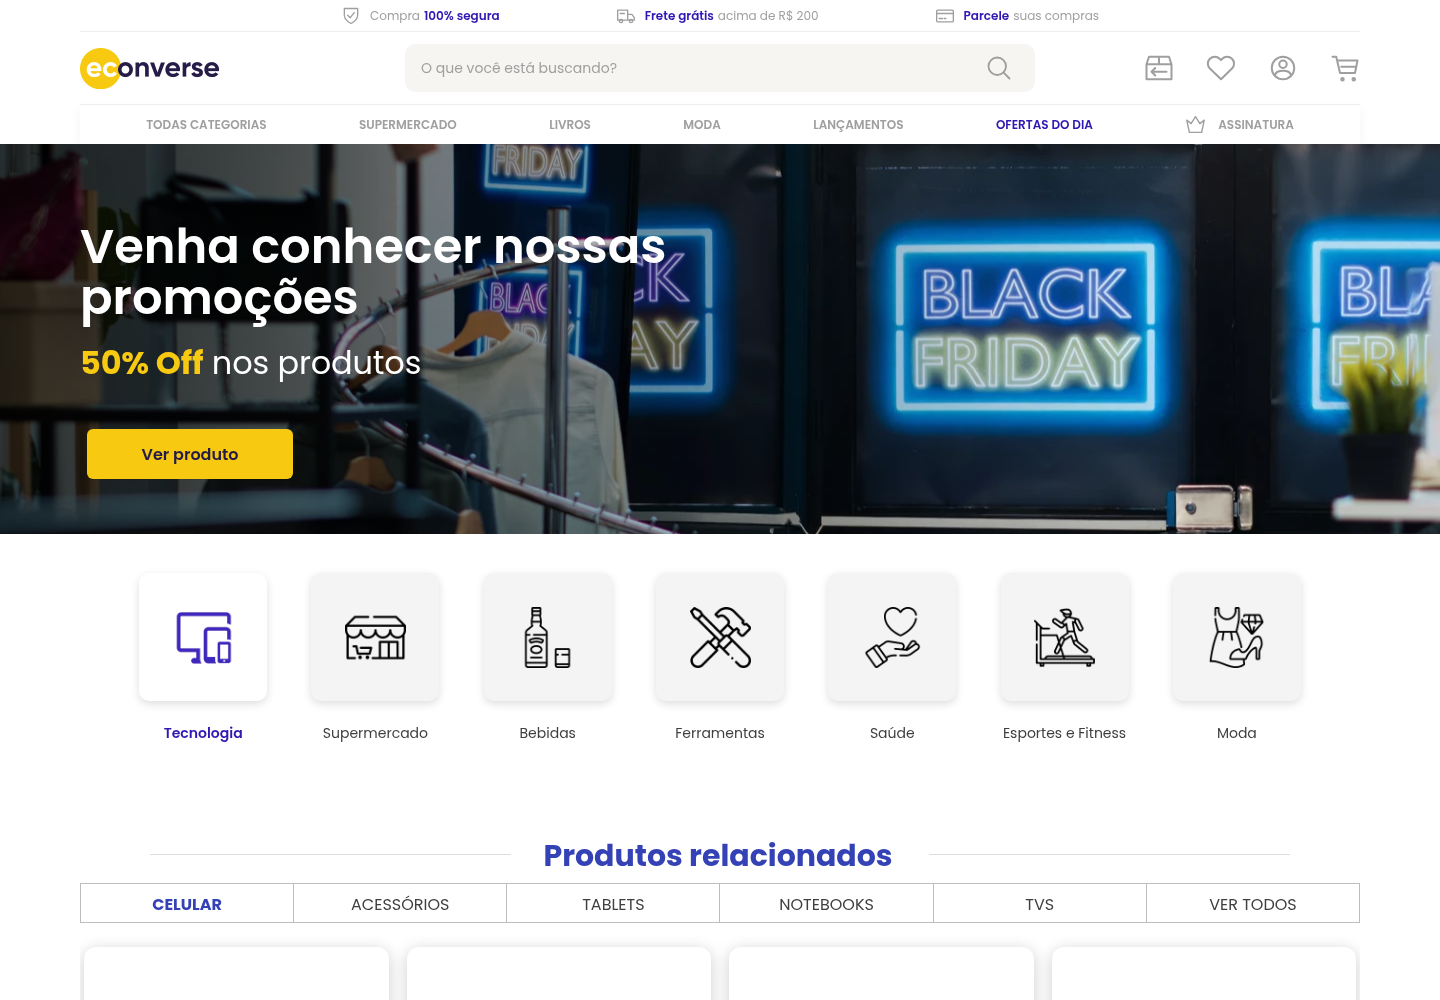
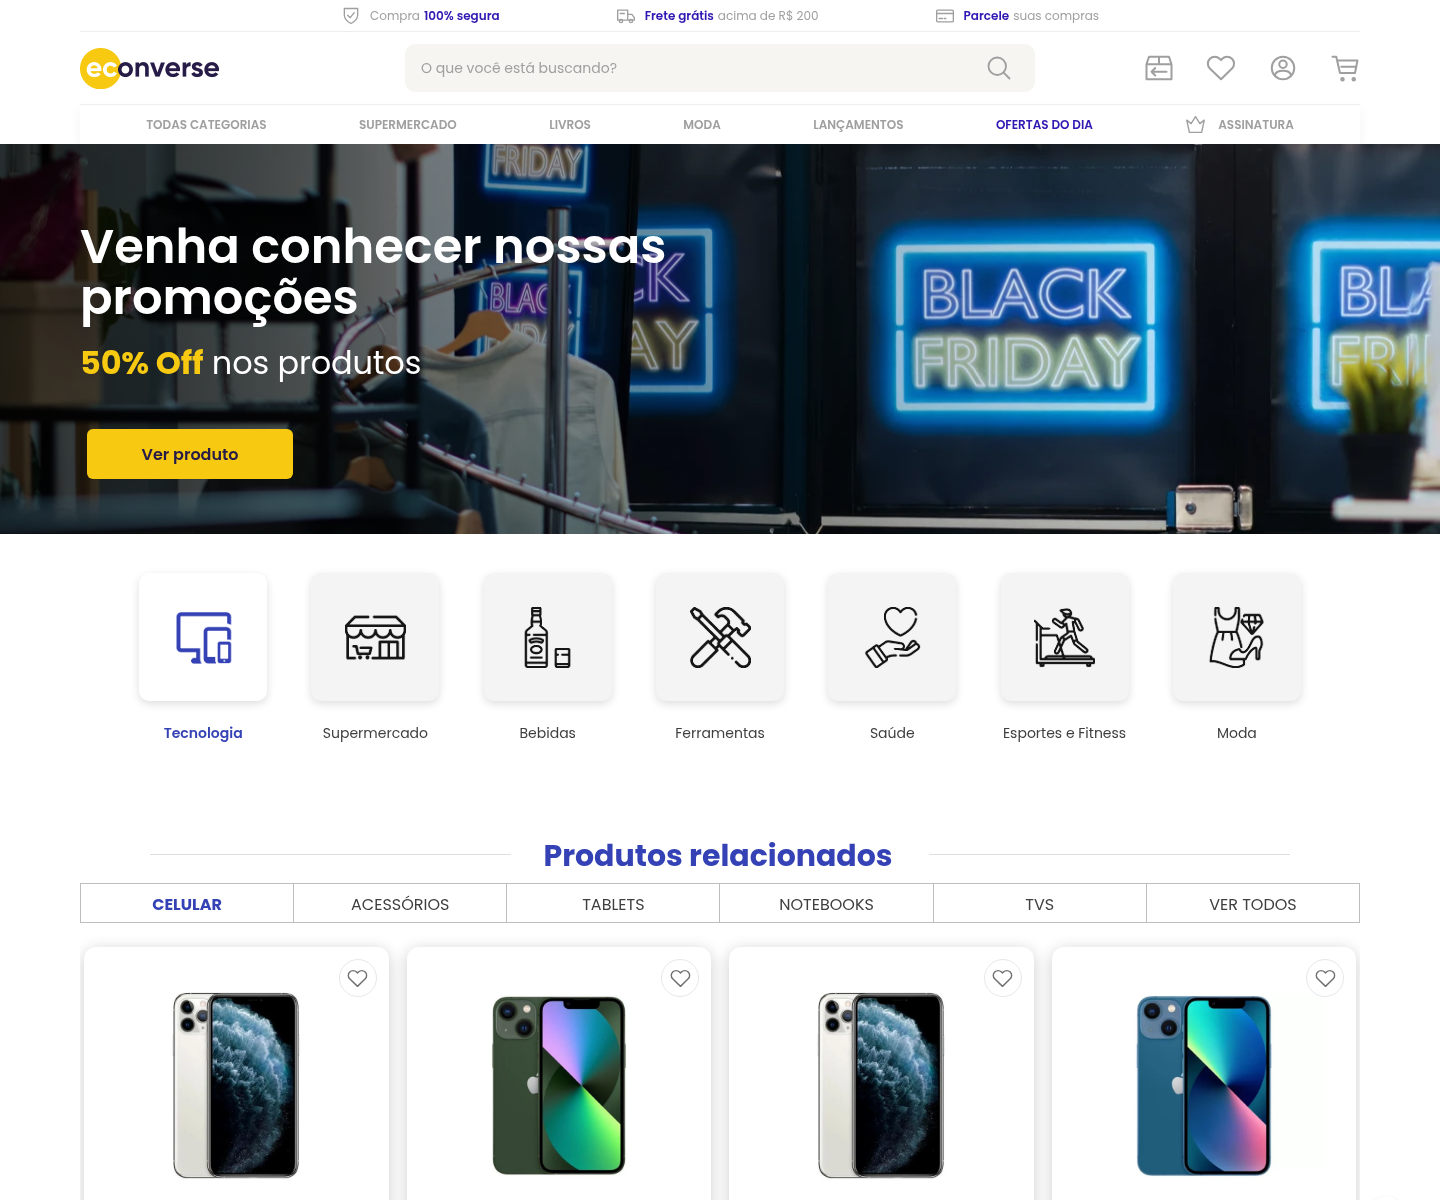
Usa fotos reais por variante e preserva tema claro

diff --git a/e2e/store.spec.ts b/e2e/store.spec.ts
@@ -16,7 +16,7 @@ test.beforeEach(async ({ page }) => {
       contentType: "image/png",
     }),
   );
-  await page.goto("/");
+  await page.goto("/?catalog=assessment");
   await expect(page.locator("#produtos .product-card")).toHaveCount(
     catalog.products.length,
   );
@@ -119,6 +119,47 @@ test("carrossel respeita os limites, layout não transborda e alto contraste pas
     .withTags(["wcag2a", "wcag2aa", "wcag21aa"])
     .analyze();
   expect(result.violations).toEqual([]);
+});
+
+test("abre com os iPhones reais e fotos correspondentes sem consultar a API genérica", async ({
+  page,
+}) => {
+  let apiRequests = 0;
+  await page.route("**/api/products", (route) => {
+    apiRequests++;
+    return route.abort();
+  });
+  await page.emulateMedia({ colorScheme: "dark" });
+  await page.goto("/");
+  const colors = await page.evaluate(() => ({
+    scheme: getComputedStyle(document.documentElement).colorScheme,
+    background: getComputedStyle(document.body).backgroundColor,
+  }));
+  expect(colors.scheme).toBe("light only");
+  expect(colors.background).toBe("rgb(255, 255, 255)");
+  const cards = page.locator("#produtos .product-card");
+  await expect(cards).toHaveCount(10);
+  await expect(cards.nth(0)).toContainText(
+    "iPhone 11 Pro Max 64GB Prateado Muito Bom",
+  );
+  await expect(cards.nth(0)).toContainText("1.849,00");
+  await expect(cards.nth(0).locator("img")).toHaveAttribute(
+    "src",
+    "/images/phones/26008.webp",
+  );
+  await expect(cards.nth(1)).toContainText("iPhone 13 Mini 256GB Verde");
+  await expect(cards.nth(1).locator("img")).toHaveAttribute(
+    "src",
+    "/images/phones/39492.webp",
+  );
+  await expect(cards.nth(0).locator("img")).toHaveJSProperty("complete", true);
+  expect(
+    await cards
+      .nth(0)
+      .locator("img")
+      .evaluate((img: HTMLImageElement) => img.naturalWidth),
+  ).toBeGreaterThan(0);
+  expect(apiRequests).toBe(0);
 });
 
 test("catálogo de referência mantém fontes e fotos separadas da API do teste", async ({

diff --git a/src/app/App.tsx b/src/app/App.tsx
@@ -9,9 +9,9 @@ import StoreProvider from "../features/shopping/context/StoreProvider";
 import Storefront from "./Storefront";
 export default function App() {
   const mode =
-    new URLSearchParams(window.location.search).get("catalog") === "real"
-      ? "real"
-      : "assessment";
+    new URLSearchParams(window.location.search).get("catalog") === "assessment"
+      ? "assessment"
+      : "real";
   const [department, setDepartment] = useState(
     () =>
       getDepartment(

diff --git a/index.html b/index.html
@@ -3,7 +3,8 @@
   <head>
     <meta charset="UTF-8" />
     <meta name="viewport" content="width=device-width, initial-scale=1.0" />
-    <meta name="theme-color" content="#3442b5" />
+    <meta name="theme-color" content="#ffffff" />
+    <meta name="color-scheme" content="light only" />
     <meta
       name="description"
       content="Confira nossa seleção de produtos de tecnologia, consulte os detalhes e encontre seu próximo smartphone."

diff --git a/src/app/App.test.tsx b/src/app/App.test.tsx
@@ -6,8 +6,12 @@ import {
   within,
 } from "@testing-library/react";
 import userEvent from "@testing-library/user-event";
-import { vi, test, expect } from "vitest";
+import { beforeEach, vi, test, expect } from "vitest";
 import App from "./App";
+beforeEach(() => {
+  window.history.replaceState(null, "", "/?catalog=assessment");
+});
+
 const products = [
   {
     productName: "Iphone branco",

diff --git a/src/styles/partials/_base.scss b/src/styles/partials/_base.scss
@@ -5,11 +5,14 @@
   box-sizing: border-box;
 }
 html {
+  color-scheme: only light;
   scroll-behavior: smooth;
+  background-color: #fff;
 }
 body {
   margin: 0;
   background: #fff;
+  color-scheme: only light;
   color: $text;
   font-family: "Poppins", sans-serif;
   -webkit-font-smoothing: antialiased;

diff --git a/README.md b/README.md
@@ -103,21 +103,22 @@ Cada funcionalidade mantém seus dados, regras, componentes e testes próximos. 
 
 ## API e decisões
 
-O catálogo é consultado em:
+O catálogo da API exigida pelo teste está em:
 
 ```text
 https://app.econverse.com.br/teste-front-end/junior/tecnologia/lista-produtos/produtos.json
 ```
 
-Como esse endpoint não permite consultas de outra origem por CORS, a interface utiliza `/api/products`. O proxy do Vite no desenvolvimento e `server.mjs` em produção encaminham a consulta ao endereço fixo da empresa, com timeout de 10 segundos. O projeto deve ser hospedado com esse servidor Node ou um proxy equivalente, e não somente como arquivos estáticos.
+Abra `/?catalog=assessment` para validar essa integração. Como o endpoint não permite consultas de outra origem por CORS, o app usa `/api/products`; o proxy do Vite no desenvolvimento e `server.mjs` em produção encaminham a consulta ao endereço fixo da empresa, com timeout de 10 segundos. Hospede com esse servidor Node ou um proxy equivalente, não apenas como arquivos estáticos.
 
-- Uma única consulta abastece Tecnologia. As três vitrines exibem o departamento selecionado; a busca filtra a primeira, enquanto as demais mantêm todos os itens daquele departamento.
-- O JSON da empresa contém somente celulares e não possui campo de categoria. Em Tecnologia, a categoria Celular continua mostrando os itens originais da API; Acessórios, Tablets, Notebooks e TVs têm produtos locais demonstrativos. Esses itens extras não substituem nem alteram os celulares, fotos ou preços recebidos da empresa.
-- Nomes, descrições, fotos e preços dos produtos vêm da API. Valores são tratados em reais, pois o contrato não informa centavos. O JSON não contém preço anterior, portanto não foi inventado desconto para preencher o preço riscado ilustrativo do Figma.
+- A página inicial usa o catálogo de referência com nomes, preços consultados e fotos locais correspondentes a cada variante de iPhone. A cópia não consulta a loja em tempo real; origem e data da coleta ficam em `reference/precos-fontes.json`.
+- No modo `?catalog=assessment`, uma consulta abastece Tecnologia. As três vitrines mostram o departamento selecionado; a busca filtra a primeira, enquanto as demais mantêm todos os itens daquele departamento.
+- O JSON da empresa contém somente celulares e não possui categoria; sua URL de imagem é igual para todos os registros. No modo de avaliação, os nomes, preços e fotos permanecem exatamente como fornecidos pela API. Acessórios, Tablets, Notebooks e TVs usam produtos locais demonstrativos.
+- A API não fornece preço anterior, portanto não foi inventado desconto para preencher o preço riscado ilustrativo do Figma.
 - Parcelamento e frete grátis seguem os textos do layout. O botão Comprar adiciona ao carrinho local. O carrinho permite alterar quantidades, remover itens, esvaziar e conferir o total; não realiza cobrança ou envio de pedido. O teste não fornece checkout, login ou serviço de pedidos.
 - A newsletter valida nome, e-mail e consentimento localmente e informa que a inscrição é demonstrativa. Não armazena nem envia dados.
 - Links institucionais e pedidos exibem uma mensagem de indisponibilidade. Conta e assinatura têm fluxos demonstrativos próprios, descritos abaixo. Carrinho e favoritos são funcionais e guardam apenas identificadores e quantidades no navegador, em chaves separadas para cada catálogo. Não há integração externa para essas áreas no enunciado.
-- Banner, parceiros e ícones de departamentos foram extraídos do protótipo e servidos localmente. As fontes Poppins são servidas localmente, com licença em `public/fonts/OFL.txt`. O logotipo foi capturado do protótipo em resolução 4× e é servido localmente, sem depender da fonte para renderizar. As imagens dos produtos no modo padrão continuam usando as URLs da API; esse catálogo depende de conexão à internet.
+- Banner, parceiros e ícones de departamentos foram extraídos do protótipo e servidos localmente. As fontes Poppins são servidas localmente, com licença em `public/fonts/OFL.txt`. O logotipo foi capturado do protótipo em resolução 4× e é servido localmente. O catálogo inicial e suas fotos ficam no próprio projeto; o modo `?catalog=assessment` consulta a API externa e precisa de conexão.
 
 ## Layout e acessibilidade
 
@@ -137,16 +138,16 @@ O modal utiliza `dialog`, com contenção de foco com ciclo explícito de Tab, f
 
 As capturas foram comparadas em 1440 × 1000. Foram corrigidos o amarelo `#F7CA11`, o campo de busca em x=405 com 630 × 48 px, a área do cabeçalho de 144 px, o banner de 390 px e o início dos cartões em y=947. O Playwright verifica esses parâmetros da referência no desktop; o caso é intencionalmente desconsiderado no projeto mobile, que usa outra resolução.
 
-A composição da página preserva a referência; os cartões recebem a ação de favoritos como extensão. Conta e assinatura abrem em diálogos, sem acrescentar seções à landing page. Os tons cinza padrão do protótipo foram preservados conforme solicitado. A preferência de sistema `prefers-contrast: more` aumenta o contraste desses textos, e é nesse modo que os testes automáticos axe são executados. Preservar as medidas principais não comprova igualdade de todos os pixels: alguns ícones ainda são reconstruções, e o conteúdo dos produtos obedece ao JSON em vez dos exemplos estáticos da imagem.
+A composição da página preserva a referência; os cartões recebem a ação de favoritos como extensão. Conta e assinatura abrem em diálogos, sem acrescentar seções à landing page. Os tons cinza padrão do protótipo foram preservados conforme solicitado. A preferência de sistema `prefers-contrast: more` aumenta o contraste desses textos, e é nesse modo que os testes automáticos axe são executados. Preservar as medidas principais não comprova igualdade de todos os pixels: alguns ícones ainda são reconstruções, e no modo `?catalog=assessment` os produtos seguem o JSON da API em vez dos exemplos estáticos da imagem.
 
 ## Departamentos funcionais
 
 Os sete ícones existentes alternam o conteúdo das vitrines na mesma landing page, sem rolagem automática. Somente o ícone selecionado fica azul. Livros abre pelo botão já existente no menu superior, mantendo as sete posições da faixa de ícones. Banner, fontes, cores, dimensões dos cartões e botões mantêm os estilos da página inicial. As seis posições da barra de categorias recebem os filtros correspondentes ao departamento escolhido.
 
-- **Tecnologia:** API original da empresa na categoria Celular; Acessórios (8), Tablets (3), Notebooks (5) e TVs (4) usam 20 produtos demonstrativos locais. A aba Ver todos reúne os celulares da API e os itens demonstrativos.
+- **Tecnologia:** sem parâmetro, abre os dez iPhones do catálogo de referência, com nomes, condições, preços e fotos por variante. Em `?catalog=assessment`, a categoria Celular usa os registros originais da API; Acessórios (8), Tablets (3), Notebooks (5) e TVs (4) têm 20 itens demonstrativos. Ver todos reúne os celulares da API e esses exemplos.
 - **Supermercado, Bebidas, Ferramentas, Saúde, Esportes e Fitness, Moda e Livros:** 44 produtos demonstrativos com imagens locais. Ao todo, há 64 itens demonstrativos nos departamentos. Os preços são fictícios e aparecem identificados como demonstrativos nos cartões e no modal. Saúde apresenta cuidados pessoais, sem medicamentos.
 - **Navegação:** a URL registra o departamento, por exemplo `/?department=ferramentas`. Recarregar, voltar e avançar preservam o departamento. Supermercado, Moda e Livros no menu superior abrem suas vitrines.
-- **Compras:** carrinho e favoritos são compartilhados entre os departamentos, com persistência. A busca e os filtros atuam no departamento selecionado. A lupa e Enter executam a pesquisa; ao pesquisar, a página leva o usuário aos resultados. Trocar o departamento não provoca essa rolagem. Os modos padrão e `?catalog=real` continuam com armazenamento separado.
+- **Compras:** carrinho e favoritos são compartilhados entre os departamentos, com persistência. A busca e os filtros atuam no departamento selecionado. A lupa e Enter executam a pesquisa; ao pesquisar, a página leva o usuário aos resultados. Trocar o departamento não provoca essa rolagem. Os modos `?catalog=real` e `?catalog=assessment` continuam com armazenamento separado; sem parâmetro, a página abre o catálogo de referência.
 - **Disponibilidade:** os departamentos demonstrativos funcionam mesmo se a API de Tecnologia estiver indisponível. Não há substituição silenciosa do catálogo original.
 
 Os dados estão em `src/features/catalog/data/departments.json`. A procedência das fotos e suas licenças estão em [docs/IMAGE-CREDITS.md](docs/IMAGE-CREDITS.md) e `reference/departamentos-fontes.json`. Não é necessário consultar serviços de imagens para usar esses departamentos depois da instalação.
@@ -157,18 +158,18 @@ O ícone **Minha conta** permite salvar nome e e-mail, editar o perfil e sair. O
 
 Esses fluxos utilizam `sessionStorage`: continuam disponíveis após recarregar a página na mesma sessão. Não há senha, autenticação real, envio de dados, e-mails ou cobrança. Sair do perfil não apaga carrinho e favoritos. A assinatura é independente do perfil e pode ser cancelada no próprio diálogo. A API do teste não fornece serviços de autenticação ou assinatura; uma versão comercial exigiria essas integrações.
 
-## Visualização com modelos e preços de referência
+## Catálogo inicial com modelos e preços de referência
 
-Como demonstração opcional, existe uma visualização em **http://localhost:5173/?catalog=real**. Ela usa uma cópia de consulta de dez variantes de iPhone 11 Pro Max e iPhone 13 mini: capacidade, cor, condição de seminovo, foto correspondente e preço fornecido pelo catálogo público da Trocafone.
+A página inicial usa uma cópia de consulta de dez variantes de iPhone 11 Pro Max e iPhone 13 mini: capacidade, cor, condição de seminovo, foto correspondente e preço fornecido pelo catálogo público da Trocafone. Assim cada cartão exibe a imagem correspondente ao modelo e à variante indicados no nome.
 
 Nesta visualização, os cartões têm coração para favoritar e botão para adicionar diretamente ao carrinho. As mesmas ações também continuam disponíveis pelo modal e pelos ícones do cabeçalho.
 
 As fontes, SKUs, fotos originais e horários da consulta estão em `reference/precos-fontes.json`. As referências externas ficam na documentação, sem links de lojas na interface. O modal informa a data e a disponibilidade registrada na consulta. Preços e estoque podem mudar; esta página não representa uma oferta de venda nem atualiza esses preços continuamente.
 
-**Para avaliação do teste, utilize a URL padrão**, sem parâmetros: ela continua consumindo o JSON da Econverse, sem substituição ou alteração de seus preços e fotos. Não há troca silenciosa de catálogo em caso de falha.
+**Para avaliação do teste, utilize `/?catalog=assessment`**: essa rota consome o JSON da Econverse sem substituir ou alterar nomes, preços e fotos. A página inicial usa o catálogo de referência solicitado posteriormente.
 
 Veja o escopo detalhado dos testes em `reference/VALIDACAO.md`.
 
 ## Entrega
 
-O enunciado original está em `reference/ENUNCIADO.md`. Esta implementação deve ser avaliada pela URL padrão, que consome a API solicitada. Para entrega à empresa, utilize o link deste repositório conforme as instruções do enunciado.
+O enunciado original está em `reference/ENUNCIADO.md`. Para demonstrar os dados exigidos no teste, abra `/?catalog=assessment`; a rota sem parâmetros mostra os modelos e as fotos por variante solicitados posteriormente. Para entregar à empresa, utilize o link deste repositório conforme as instruções do enunciado.

diff --git a/reference/VALIDACAO.md b/reference/VALIDACAO.md
@@ -20,20 +20,21 @@ npm run format:check
 - Limites das setas do carrossel e navegação pelo teclado.
 - Ausência de transbordamento horizontal em desktop e celular.
 - Auditoria axe-core da página, do modal e do carrinho, com regras WCAG 2 A/AA e 2.1 AA no modo `prefers-contrast: more`. O modo padrão preserva os tons cinza do protótipo, que não atendem ao contraste AA em alguns textos.
+- Catálogo inicial com nomes, preços e imagens por variante, sem consulta à API genérica; modo escuro do sistema preserva a página clara.
 - Separação do catálogo de referência, fotos por variante e ausência de links de lojas no modal. As fontes permanecem na documentação.
 
-Os testes usam a cópia do JSON em `e2e/fixtures/` exclusivamente para tornar a execução independente do serviço externo. A aplicação no modo padrão consulta a API real. A auditoria automática auxilia a encontrar problemas, mas não substitui uma avaliação manual completa de acessibilidade.
+Os testes usam a cópia do JSON em `e2e/fixtures/` exclusivamente para tornar a execução independente do serviço externo. A aplicação consulta a API da empresa em `/?catalog=assessment`. A página inicial apresenta o catálogo de referência local, com nomes e fotos específicos por variante. A auditoria automática auxilia a encontrar problemas, mas não substitui uma avaliação manual completa de acessibilidade.
 
 ## Referência comercial
 
-`reference/precos-fontes.json` registra SKU, preço retornado pelo catálogo da Trocafone, URL, foto original, estoque na coleta e data/hora. A cópia de apresentação está em `public/data/products-real.json` e é acessada apenas com `?catalog=real`.
+`reference/precos-fontes.json` registra SKU, preço retornado pelo catálogo da Trocafone, URL, foto original, estoque na coleta e data/hora. A cópia de apresentação está em `public/data/products-real.json` e abastece a página inicial. O parâmetro opcional `?catalog=real` mantém esse catálogo; o modo de avaliação da API fica em `?catalog=assessment`.
 
 Esses valores são referências registradas na coleta, sem promessa de atualização contínua ou de disponibilidade. A capacidade, cor e condição são parte do nome do aparelho. As fotos são ilustrativas dos modelos e cores, conforme o anúncio do fornecedor, e não fotografias individuais de cada aparelho seminovo.
 
 
 ## Ampliação da experiência e fidelidade visual
 
-A revisão da estrutura tem 30 testes unitários e 25 casos de navegador executados com sucesso. Um caso adicional, de geometria desktop em 1440px, é intencionalmente ignorado no projeto mobile.
+A suíte tem 30 testes unitários e 15 cenários de navegador executados em desktop e celular: 29 execuções passam e uma verificação exclusiva de geometria desktop é ignorada no projeto mobile.
 
 Os fluxos adicionais verificam carrinho, totais, quantidades, persistência após recarregar, favoritos, ordenação e ações diretas nos cartões da visualização com fotos reais. Os dados de carrinho/favoritos são separados entre os catálogos e não incluem dados pessoais. Nenhum checkout ou pedido real é enviado.
 

diff --git a/docs/ARCHITECTURE.md b/docs/ARCHITECTURE.md
@@ -25,7 +25,7 @@ A aplicação usa React, TypeScript e Sass. A organização separa composição 
 
 ## Fluxo dos dados
 
-1. `App` escolhe o modo de catálogo a partir da URL e chama `useProducts` para Tecnologia. O departamento ativo também é registrado na URL, com suporte ao histórico do navegador.
+1. `App` abre o catálogo local com modelos e preços de referência por padrão. Com `?catalog=assessment`, chama `useProducts` para consultar a API da empresa. O departamento ativo também é registrado na URL, com suporte ao histórico do navegador.
 2. O módulo `catalog/api` consulta o endpoint, valida o contrato e devolve produtos tipados. O hook controla carregamento, erro, cancelamento e nova tentativa.
 3. `Storefront` compõe as seções, seleciona os produtos do departamento e controla a busca e os diálogos. As funções de busca e ordenação não modificam a sequência original do catálogo.
 4. `StoreProvider` recebe a união dos produtos de Tecnologia e dos departamentos demonstrativos, compartilhando as ações da loja entre os departamentos. O navegador guarda identificadores e quantidades; preços e fotos sempre vêm do catálogo carregado.
@@ -35,7 +35,7 @@ A aplicação usa React, TypeScript e Sass. A organização separa composição 
 
 O JSON não oferece ID nem categoria. O nome identifica o produto na persistência, o que pressupõe nomes únicos no catálogo fornecido. Uma API com IDs permitiria substituir essa chave sem depender do nome. Em Tecnologia, os celulares da API são associados à categoria Celular, sem alterar seus dados. Acessórios, Tablets, Notebooks e TVs são exemplos locais com categorias explícitas; Ver todos reúne ambos os catálogos. Os departamentos demonstrativos usam seis filtros cada.
 
-O catálogo opcional de referência usa a mesma interface e uma chave de armazenamento distinta. A página padrão continua consumindo a API exigida pelo teste.
+Os dois catálogos usam a mesma interface e chaves de armazenamento distintas. A rota `?catalog=assessment` consome a API e mantém os valores recebidos intactos; o catálogo inicial usa a cópia local com imagens específicas por variante.
 
 Context é suficiente para o volume atual de estado compartilhado. Não há camada global para busca ou diálogos, nem abstração genérica de repositórios para um único endpoint. A interface do catálogo usa o hook de compras para ações do usuário; o modelo de compras depende apenas dos tipos do produto e não importa componentes de catálogo.
 
